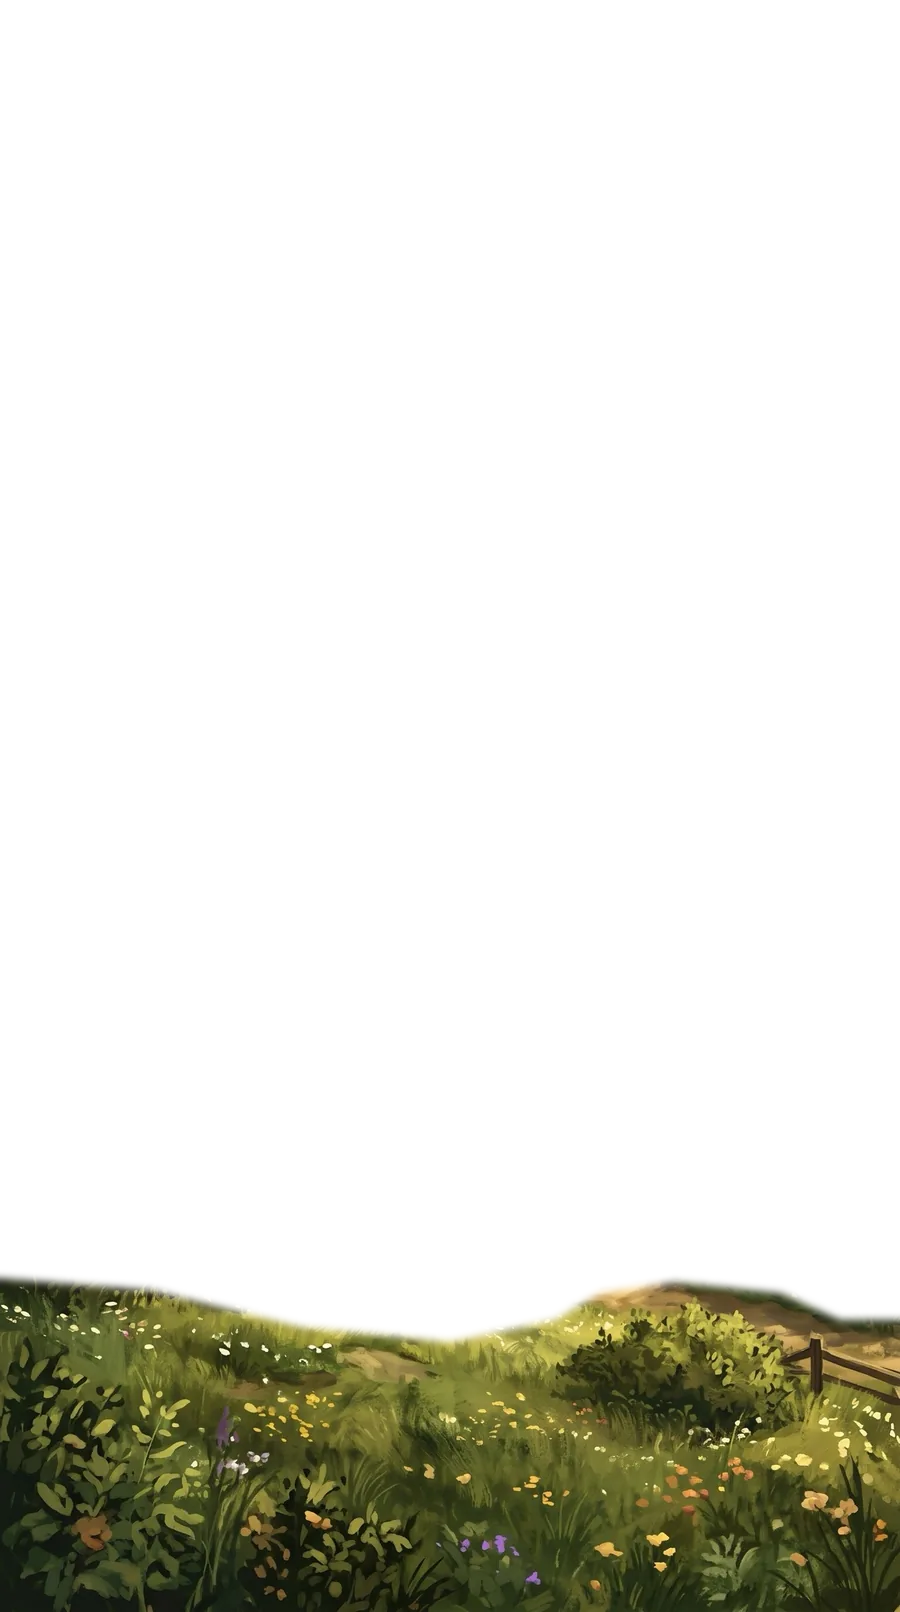
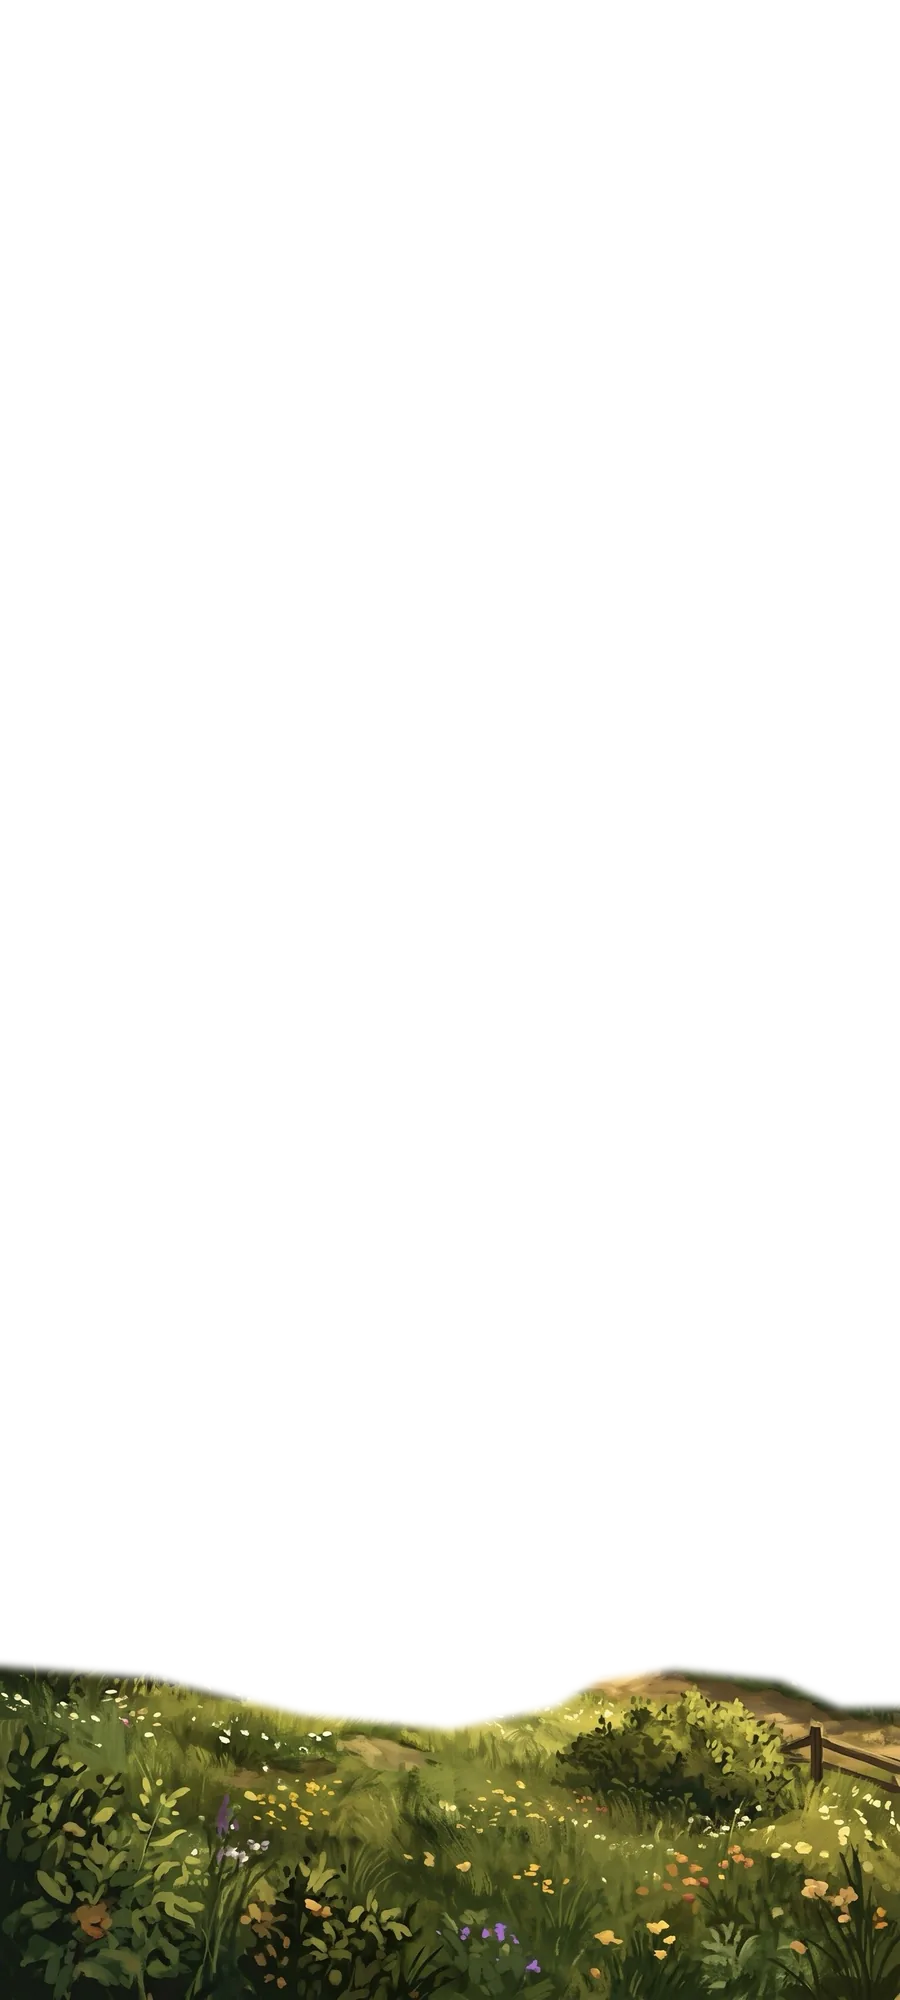
Show the whole width of the Shire on the title screen
The layers were drawn 12% oversize and cropped to a phone's shape, hiding
about a quarter of the painting's width. Now they are 4% oversize (still
enough for the camera's drift), and make-layers.py carries the sky on
upward so the layers are a phone's shape; anchored at the bottom, a
short screen loses only sky.

Claude-Session: https://claude.ai/code/session_019NT2n6NGUoP5gXDJDWeBSi

Changed region(s): [[0.0, 0.7754, 1.0, 1.0]]

diff --git a/app/app.css b/app/app.css
@@ -761,13 +761,14 @@ header.top h2 { flex: 1; margin: 0; text-align: center; font: 700 21px var(--dis
 
 /* ---------------------------------------------------------------- title */
 .screen-title { justify-content: center; background: #0f0d09; }
-/* The backdrop (shire.js): a picture in depth layers, oversized so a camera move never shows an edge.
+/* The backdrop (shire.js): a picture in depth layers, a little oversized so a camera move never shows
+   an edge, and anchored at the bottom (on a short screen, it's the extra sky at the top that's cut).
    It fades in once loaded; the camera pulls back from close in, then drifts. Each layer moves by its
    depth --d (0 far, 1 near), so near layers move and shrink more: parallax. */
 .rv { position: absolute; inset: 0; overflow: hidden; background: #c9b89a; opacity: 0; transition: opacity .5s ease-out; }
 .rv.ready { opacity: 1; }
 .rv-layer {
-  position: absolute; inset: -6%; width: 112%; height: 112%; object-fit: cover; object-position: 50% 50%;
+  position: absolute; inset: -2%; width: 104%; height: 104%; object-fit: cover; object-position: 50% 100%;
   will-change: transform; transform-origin: 50% 55%; pointer-events: none;
   animation: rv-intro 4.2s cubic-bezier(.25, .8, .25, 1) both, rv-camera 24s 4.2s ease-in-out infinite alternate;
   animation-play-state: paused;
@@ -786,7 +787,7 @@ header.top h2 { flex: 1; margin: 0; text-align: center; font: 700 21px var(--dis
 /* Shade behind the name, and at the foot for the buttons. */
 .rv-scrim-top { position: absolute; inset: 0; background: linear-gradient(180deg, rgba(14, 12, 8, .12) 0%, rgba(14, 12, 8, .18) 18%, rgba(14, 12, 8, .1) 28%, rgba(14, 12, 8, 0) 40%); }
 .rv-scrim { position: absolute; inset: 0; background: linear-gradient(180deg, rgba(0, 0, 0, 0) 60%, rgba(6, 7, 4, .6) 100%); }
-/* The name, as a layer, in the sky above the hills: its box is a layer's (112% of the screen, from -6%), so 22% down it is 18.6% down the screen. */
+/* The name, as a layer, in the sky above the mountains: its box is a layer's (104% of the screen, from -2%). */
 .rv-title .logo-big { position: absolute; left: 0; right: 0; top: calc(22% - 60px + var(--safe-top)); margin: 0; line-height: 1; text-align: center; }
 .title-main { position: relative; flex: 1; width: 100%; display: flex; flex-direction: column; align-items: center; justify-content: flex-end; padding: 0 28px calc(12vh + var(--safe-bottom)); }
 @keyframes tagline-in { from { opacity: 0; transform: translateY(6px); } to { opacity: 1; transform: none; } }

diff --git a/sw.js b/sw.js
@@ -3,7 +3,7 @@
  * cache and refreshed in the background (so a new version shows on the next
  * visit); card images from Scryfall's CDN are cached once and kept.
  */
-const VERSION = 'istari-v24';
+const VERSION = 'istari-v25';
 const SHELL = [
   './', 'index.html', 'app/app.css', 'app/main.js', 'manifest.webmanifest', 'app/icons/icon.svg',
   'app/vendor/symbols.css', 'app/vendor/mana.woff2', 'app/vendor/keyrune.woff2',

diff --git a/tools/title/make-layers.py b/tools/title/make-layers.py
@@ -22,6 +22,8 @@ OUT = ROOT / 'app/title'
 WIDTH = 900    # the layers' width in pixels (sharp on a phone at 2x, and not too heavy)
 REF = 600      # the width REGIONS are drawn at (the picture is 600 x 1075 there)
 UNDER = 22     # px a layer is filled in under the edge of the layers in front of it, at REF
+ASPECT = 0.45  # width / height of the layers: the sky is carried on upward to make them a phone's shape,
+               # so a phone shows the painting's full width (anchored at the bottom; app.css, "title")
 
 # Far to near, after the sky (layer 0, the whole picture). Polygons are (x, y) at REF.
 REGIONS = {
@@ -111,16 +113,10 @@ def main():
     img = np.asarray(src)
     h, w = img.shape[:2]
     k = w / REF
+    extra = max(0, round(w / ASPECT) - h)
     masks = {}
     for name, spec in REGIONS.items():
-        mask = polygon_mask((w, h), spec['polys'], k)
-        if 'trees' in spec:
-            # Above this line, only the dark trees, not the bright mist between them.
-            value = img.max(axis=2)
-            above = np.arange(h)[:, None] < spec['trees'] * k
-            dark = soften(value < 150, 1.2) > 128
-            mask &= ~above | dark
-        masks[name] = mask
+        masks[name] = polygon_mask((w, h), spec['polys'], k)
     # A nearer layer wins where regions overlap.
     for i, name in enumerate(ORDER[1:], 1):
         for nearer in ORDER[i + 1:]:
@@ -137,10 +133,19 @@ def main():
         content = fill_in(img, grow(in_front, round(2 * k))) if in_front.any() else img
         if name == 'sky':
             alpha = np.full((h, w), 255, np.uint8)
+            # More sky above: the painting's own, mirrored (the seam is continuous), softened as it goes up.
+            above = content[1:extra + 1][::-1]
+            hazy = np.stack([np.asarray(Image.fromarray(above[..., c]).filter(ImageFilter.GaussianBlur(3 * k))) for c in range(3)], axis=2)
+            t = np.linspace(1, 0, extra)[:, None, None]
+            above = (above * (1 - t * 0.7) + hazy * t * 0.7).astype(np.uint8)
+            content = np.concatenate([above, content])
+            alpha = np.full((h + extra, w), 255, np.uint8)
         else:
             # Its own region, plus a margin carried on under the layers in front.
             region = masks[name] | (grow(masks[name], under) & in_front)
             alpha = soften(region, REGIONS[name]['feather'] * k / 2)
+            content = np.concatenate([np.zeros((extra, w, 3), np.uint8), content])
+            alpha = np.concatenate([np.zeros((extra, w), np.uint8), alpha])
         rgba = np.dstack([content, alpha])
         Image.fromarray(rgba, 'RGBA').save(OUT / f'layer-{i}.webp', quality=82, method=6)
         print(f'layer-{i}.webp ({name})')
